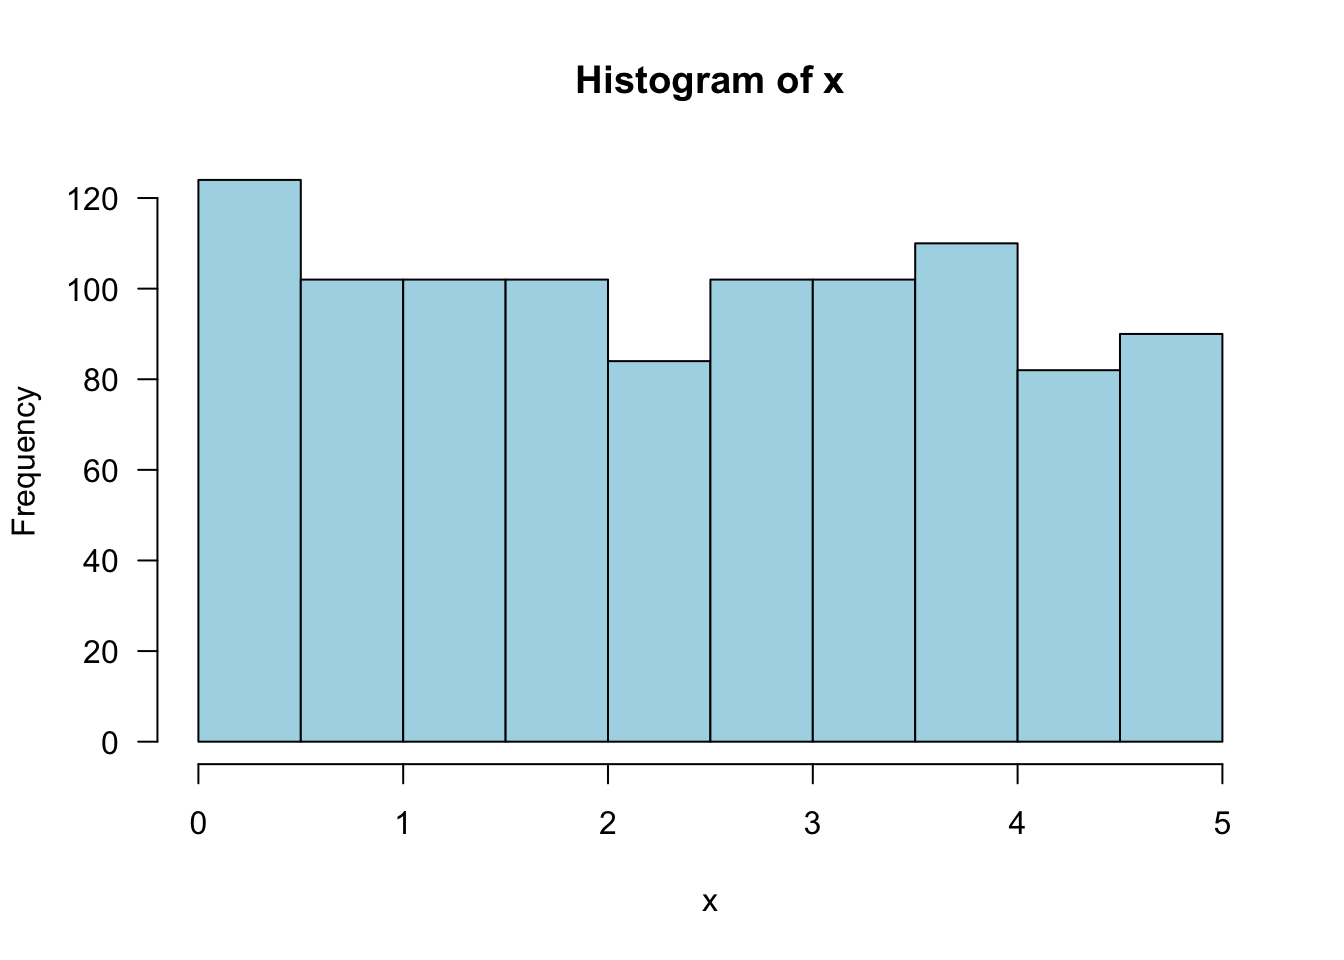
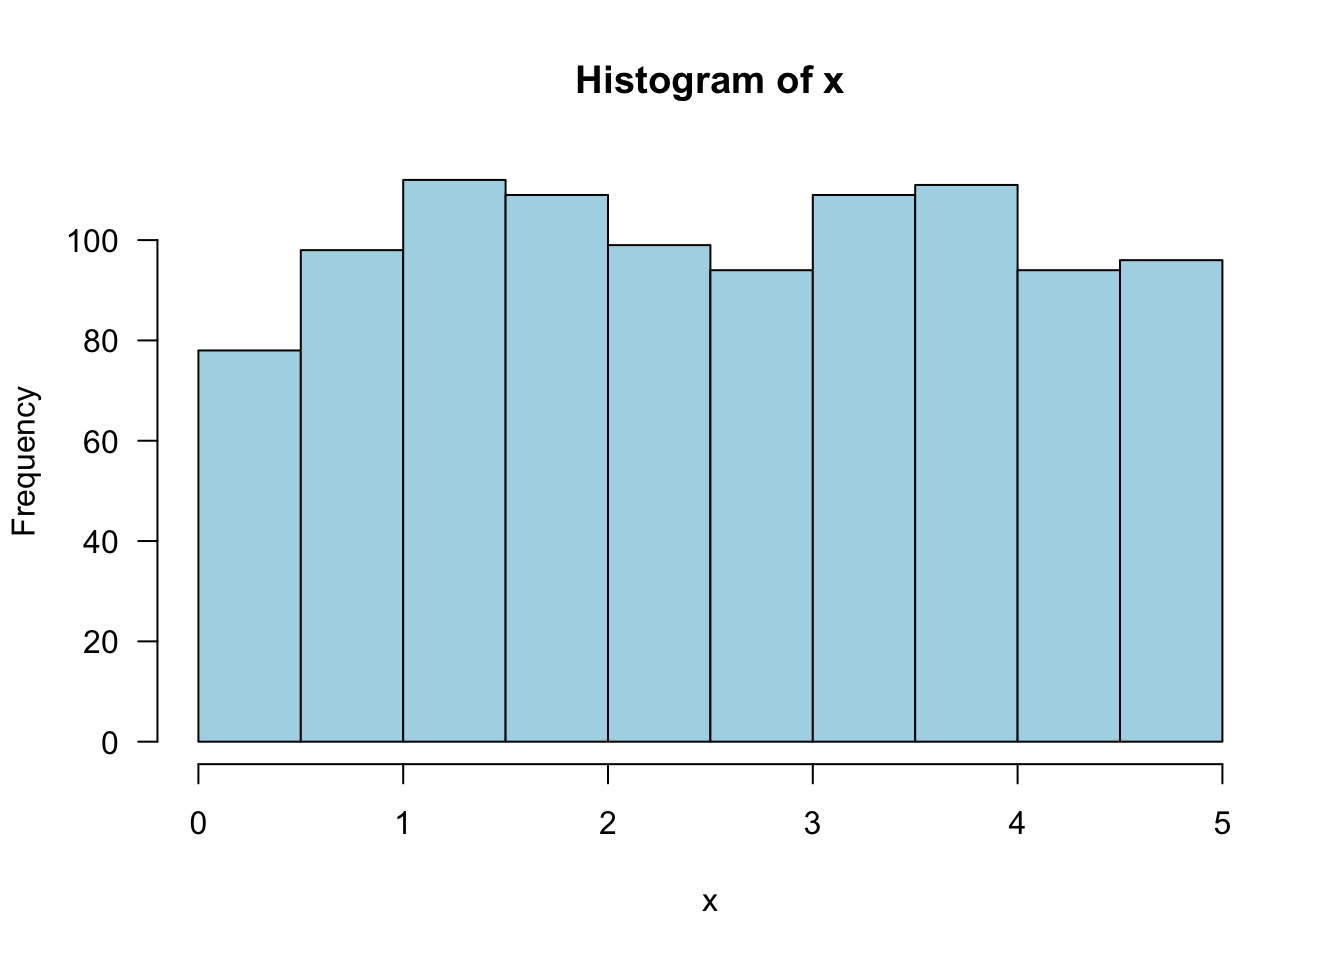
jtr13 published a site update

diff --git a/index.html b/index.html
@@ -142,7 +142,6 @@ code span.wa { color: #60a0b0; font-weight: bold; font-style: italic; } /* Warni
 <li class="chapter" data-level="" data-path="index.html"><a href="index.html#saving-your-code-as-an-.r-file"><i class="fa fa-check"></i>Saving your code as an .R file</a></li>
 <li class="chapter" data-level="" data-path="index.html"><a href="index.html#convert-.r-file-to-.html"><i class="fa fa-check"></i>Convert .R file to .html</a></li>
 <li class="chapter" data-level="" data-path="index.html"><a href="index.html#save-code-and-text-as-.rmd-convert-to-.html"><i class="fa fa-check"></i>Save code and text as .Rmd, convert to .html</a></li>
-<li class="chapter" data-level="" data-path="index.html"><a href="index.html#using-r-as-a-calculator"><i class="fa fa-check"></i>Using R as a calculator</a></li>
 </ul></li>
 <li class="chapter" data-level="" data-path="index.html"><a href="index.html#contact"><i class="fa fa-check"></i>Contact</a></li>
 <li class="chapter" data-level="" data-path="index.html"><a href="index.html#license"><i class="fa fa-check"></i>License</a></li>
@@ -314,6 +313,33 @@ code span.wa { color: #60a0b0; font-weight: bold; font-style: italic; } /* Warni
 <p><img src="images/R2.png" /></p>
 <p>Drawing a stem and leaf plot</p>
 <p><img src="images/R3.png" /></p>
+<p>Basic operations:</p>
+<div class="sourceCode" id="cb1"><pre class="sourceCode r"><code class="sourceCode r"><span id="cb1-1"><a href="index.html#cb1-1"></a><span class="dv">3</span> <span class="op">+</span><span class="st"> </span><span class="dv">4</span></span></code></pre></div>
+<pre><code>## [1] 7</code></pre>
+<div class="sourceCode" id="cb3"><pre class="sourceCode r"><code class="sourceCode r"><span id="cb3-1"><a href="index.html#cb3-1"></a><span class="dv">3</span> <span class="op">-</span><span class="st"> </span><span class="dv">4</span></span></code></pre></div>
+<pre><code>## [1] -1</code></pre>
+<div class="sourceCode" id="cb5"><pre class="sourceCode r"><code class="sourceCode r"><span id="cb5-1"><a href="index.html#cb5-1"></a><span class="dv">3</span> <span class="op">*</span><span class="st"> </span><span class="dv">4</span></span></code></pre></div>
+<pre><code>## [1] 12</code></pre>
+<div class="sourceCode" id="cb7"><pre class="sourceCode r"><code class="sourceCode r"><span id="cb7-1"><a href="index.html#cb7-1"></a><span class="dv">3</span> <span class="op">/</span><span class="st"> </span><span class="dv">4</span></span></code></pre></div>
+<pre><code>## [1] 0.75</code></pre>
+<div class="sourceCode" id="cb9"><pre class="sourceCode r"><code class="sourceCode r"><span id="cb9-1"><a href="index.html#cb9-1"></a><span class="dv">3</span><span class="op">^</span><span class="dv">4</span></span></code></pre></div>
+<pre><code>## [1] 81</code></pre>
+<p>Working with vectors:</p>
+<div class="sourceCode" id="cb11"><pre class="sourceCode r"><code class="sourceCode r"><span id="cb11-1"><a href="index.html#cb11-1"></a>x &lt;-<span class="st"> </span><span class="dv">1</span><span class="op">:</span><span class="dv">5</span></span>
+<span id="cb11-2"><a href="index.html#cb11-2"></a>x</span></code></pre></div>
+<pre><code>## [1] 1 2 3 4 5</code></pre>
+<div class="sourceCode" id="cb13"><pre class="sourceCode r"><code class="sourceCode r"><span id="cb13-1"><a href="index.html#cb13-1"></a><span class="kw">sum</span>(x)</span></code></pre></div>
+<pre><code>## [1] 15</code></pre>
+<div class="sourceCode" id="cb15"><pre class="sourceCode r"><code class="sourceCode r"><span id="cb15-1"><a href="index.html#cb15-1"></a><span class="kw">cumsum</span>(x)</span></code></pre></div>
+<pre><code>## [1]  1  3  6 10 15</code></pre>
+<div class="sourceCode" id="cb17"><pre class="sourceCode r"><code class="sourceCode r"><span id="cb17-1"><a href="index.html#cb17-1"></a>px &lt;-<span class="st"> </span>x<span class="op">*</span>.<span class="dv">05</span> <span class="op">+</span><span class="st"> </span><span class="fl">.05</span></span>
+<span id="cb17-2"><a href="index.html#cb17-2"></a>px</span></code></pre></div>
+<pre><code>## [1] 0.10 0.15 0.20 0.25 0.30</code></pre>
+<p>Expected value:</p>
+<div class="sourceCode" id="cb19"><pre class="sourceCode r"><code class="sourceCode r"><span id="cb19-1"><a href="index.html#cb19-1"></a>x<span class="op">*</span>px</span></code></pre></div>
+<pre><code>## [1] 0.1 0.3 0.6 1.0 1.5</code></pre>
+<div class="sourceCode" id="cb21"><pre class="sourceCode r"><code class="sourceCode r"><span id="cb21-1"><a href="index.html#cb21-1"></a><span class="kw">sum</span>(x<span class="op">*</span>px)</span></code></pre></div>
+<pre><code>## [1] 3.5</code></pre>
 </div>
 <div id="saving-your-code-as-an-.r-file" class="section level3 unnumbered">
 <h3>Saving your code as an .R file</h3>
@@ -342,36 +368,6 @@ code span.wa { color: #60a0b0; font-weight: bold; font-style: italic; } /* Warni
 <p><strong>Video</strong></p>
 <iframe width="560" height="315" src="https://www.youtube.com/embed/x0-kHWybiaQ" frameborder="0" allow="accelerometer; autoplay; encrypted-media; gyroscope; picture-in-picture" allowfullscreen>
 </iframe>
-</div>
-<div id="using-r-as-a-calculator" class="section level3 unnumbered">
-<h3>Using R as a calculator</h3>
-<p>Basic operations:</p>
-<div class="sourceCode" id="cb1"><pre class="sourceCode r"><code class="sourceCode r"><span id="cb1-1"><a href="index.html#cb1-1"></a><span class="dv">3</span> <span class="op">+</span><span class="st"> </span><span class="dv">4</span></span></code></pre></div>
-<pre><code>## [1] 7</code></pre>
-<div class="sourceCode" id="cb3"><pre class="sourceCode r"><code class="sourceCode r"><span id="cb3-1"><a href="index.html#cb3-1"></a><span class="dv">3</span> <span class="op">-</span><span class="st"> </span><span class="dv">4</span></span></code></pre></div>
-<pre><code>## [1] -1</code></pre>
-<div class="sourceCode" id="cb5"><pre class="sourceCode r"><code class="sourceCode r"><span id="cb5-1"><a href="index.html#cb5-1"></a><span class="dv">3</span> <span class="op">*</span><span class="st"> </span><span class="dv">4</span></span></code></pre></div>
-<pre><code>## [1] 12</code></pre>
-<div class="sourceCode" id="cb7"><pre class="sourceCode r"><code class="sourceCode r"><span id="cb7-1"><a href="index.html#cb7-1"></a><span class="dv">3</span> <span class="op">/</span><span class="st"> </span><span class="dv">4</span></span></code></pre></div>
-<pre><code>## [1] 0.75</code></pre>
-<div class="sourceCode" id="cb9"><pre class="sourceCode r"><code class="sourceCode r"><span id="cb9-1"><a href="index.html#cb9-1"></a><span class="dv">3</span><span class="op">^</span><span class="dv">4</span></span></code></pre></div>
-<pre><code>## [1] 81</code></pre>
-<p>Working with vectors:</p>
-<div class="sourceCode" id="cb11"><pre class="sourceCode r"><code class="sourceCode r"><span id="cb11-1"><a href="index.html#cb11-1"></a>x &lt;-<span class="st"> </span><span class="dv">1</span><span class="op">:</span><span class="dv">5</span></span>
-<span id="cb11-2"><a href="index.html#cb11-2"></a>x</span></code></pre></div>
-<pre><code>## [1] 1 2 3 4 5</code></pre>
-<div class="sourceCode" id="cb13"><pre class="sourceCode r"><code class="sourceCode r"><span id="cb13-1"><a href="index.html#cb13-1"></a><span class="kw">sum</span>(x)</span></code></pre></div>
-<pre><code>## [1] 15</code></pre>
-<div class="sourceCode" id="cb15"><pre class="sourceCode r"><code class="sourceCode r"><span id="cb15-1"><a href="index.html#cb15-1"></a><span class="kw">cumsum</span>(x)</span></code></pre></div>
-<pre><code>## [1]  1  3  6 10 15</code></pre>
-<div class="sourceCode" id="cb17"><pre class="sourceCode r"><code class="sourceCode r"><span id="cb17-1"><a href="index.html#cb17-1"></a>px &lt;-<span class="st"> </span>x<span class="op">*</span>.<span class="dv">05</span> <span class="op">+</span><span class="st"> </span><span class="fl">.05</span></span>
-<span id="cb17-2"><a href="index.html#cb17-2"></a>px</span></code></pre></div>
-<pre><code>## [1] 0.10 0.15 0.20 0.25 0.30</code></pre>
-<p>Expected value:</p>
-<div class="sourceCode" id="cb19"><pre class="sourceCode r"><code class="sourceCode r"><span id="cb19-1"><a href="index.html#cb19-1"></a>x<span class="op">*</span>px</span></code></pre></div>
-<pre><code>## [1] 0.1 0.3 0.6 1.0 1.5</code></pre>
-<div class="sourceCode" id="cb21"><pre class="sourceCode r"><code class="sourceCode r"><span id="cb21-1"><a href="index.html#cb21-1"></a><span class="kw">sum</span>(x<span class="op">*</span>px)</span></code></pre></div>
-<pre><code>## [1] 3.5</code></pre>
 <!-- Contact -->
 </div>
 </div>

diff --git a/ch-4-continuous-random-variables-and-probability-distributions.html b/ch-4-continuous-random-variables-and-probability-distributions.html
@@ -142,7 +142,6 @@ code span.wa { color: #60a0b0; font-weight: bold; font-style: italic; } /* Warni
 <li class="chapter" data-level="" data-path="index.html"><a href="index.html#saving-your-code-as-an-.r-file"><i class="fa fa-check"></i>Saving your code as an .R file</a></li>
 <li class="chapter" data-level="" data-path="index.html"><a href="index.html#convert-.r-file-to-.html"><i class="fa fa-check"></i>Convert .R file to .html</a></li>
 <li class="chapter" data-level="" data-path="index.html"><a href="index.html#save-code-and-text-as-.rmd-convert-to-.html"><i class="fa fa-check"></i>Save code and text as .Rmd, convert to .html</a></li>
-<li class="chapter" data-level="" data-path="index.html"><a href="index.html#using-r-as-a-calculator"><i class="fa fa-check"></i>Using R as a calculator</a></li>
 </ul></li>
 <li class="chapter" data-level="" data-path="index.html"><a href="index.html#contact"><i class="fa fa-check"></i>Contact</a></li>
 <li class="chapter" data-level="" data-path="index.html"><a href="index.html#license"><i class="fa fa-check"></i>License</a></li>
@@ -272,11 +271,11 @@ code span.wa { color: #60a0b0; font-weight: bold; font-style: italic; } /* Warni
 <p>Randomly choose one number from the distribution:</p>
 <p><span class="math inline">\(f(x) = .2\)</span> for <span class="math inline">\(0 \leq x \leq 5\)</span>, 0 otherwise.</p>
 <div class="sourceCode" id="cb149"><pre class="sourceCode r"><code class="sourceCode r"><span id="cb149-1"><a href="ch-4-continuous-random-variables-and-probability-distributions.html#cb149-1"></a><span class="kw">runif</span>(<span class="dt">n =</span> <span class="dv">1</span>, <span class="dt">min =</span> <span class="dv">0</span>, <span class="dt">max =</span> <span class="dv">5</span>)</span></code></pre></div>
-<pre><code>## [1] 0.4248405</code></pre>
+<pre><code>## [1] 4.488759</code></pre>
 <p>Take the average of 1000 picks:</p>
 <div class="sourceCode" id="cb151"><pre class="sourceCode r"><code class="sourceCode r"><span id="cb151-1"><a href="ch-4-continuous-random-variables-and-probability-distributions.html#cb151-1"></a>x &lt;-<span class="st"> </span><span class="kw">runif</span>(<span class="dt">n =</span> <span class="dv">1000</span>, <span class="dt">min =</span> <span class="dv">0</span>, <span class="dt">max =</span> <span class="dv">5</span>)</span>
 <span id="cb151-2"><a href="ch-4-continuous-random-variables-and-probability-distributions.html#cb151-2"></a><span class="kw">mean</span>(x)</span></code></pre></div>
-<pre><code>## [1] 2.40791</code></pre>
+<pre><code>## [1] 2.530955</code></pre>
 <p>Draw a histogram of the 1000 picks:</p>
 <div class="sourceCode" id="cb153"><pre class="sourceCode r"><code class="sourceCode r"><span id="cb153-1"><a href="ch-4-continuous-random-variables-and-probability-distributions.html#cb153-1"></a><span class="kw">hist</span>(x, <span class="dt">las =</span> <span class="dv">1</span>, <span class="dt">col =</span> <span class="st">&quot;lightblue&quot;</span>)</span></code></pre></div>
 <p><img src="STAT1201-resource_files/figure-html/unnamed-chunk-41-1.png" width="672" /></p>

diff --git a/ch-1-descriptive-statistics.html b/ch-1-descriptive-statistics.html
@@ -142,7 +142,6 @@ code span.wa { color: #60a0b0; font-weight: bold; font-style: italic; } /* Warni
 <li class="chapter" data-level="" data-path="index.html"><a href="index.html#saving-your-code-as-an-.r-file"><i class="fa fa-check"></i>Saving your code as an .R file</a></li>
 <li class="chapter" data-level="" data-path="index.html"><a href="index.html#convert-.r-file-to-.html"><i class="fa fa-check"></i>Convert .R file to .html</a></li>
 <li class="chapter" data-level="" data-path="index.html"><a href="index.html#save-code-and-text-as-.rmd-convert-to-.html"><i class="fa fa-check"></i>Save code and text as .Rmd, convert to .html</a></li>
-<li class="chapter" data-level="" data-path="index.html"><a href="index.html#using-r-as-a-calculator"><i class="fa fa-check"></i>Using R as a calculator</a></li>
 </ul></li>
 <li class="chapter" data-level="" data-path="index.html"><a href="index.html#contact"><i class="fa fa-check"></i>Contact</a></li>
 <li class="chapter" data-level="" data-path="index.html"><a href="index.html#license"><i class="fa fa-check"></i>License</a></li>

diff --git a/ch-12-linear-regression.html b/ch-12-linear-regression.html
@@ -142,7 +142,6 @@ code span.wa { color: #60a0b0; font-weight: bold; font-style: italic; } /* Warni
 <li class="chapter" data-level="" data-path="index.html"><a href="index.html#saving-your-code-as-an-.r-file"><i class="fa fa-check"></i>Saving your code as an .R file</a></li>
 <li class="chapter" data-level="" data-path="index.html"><a href="index.html#convert-.r-file-to-.html"><i class="fa fa-check"></i>Convert .R file to .html</a></li>
 <li class="chapter" data-level="" data-path="index.html"><a href="index.html#save-code-and-text-as-.rmd-convert-to-.html"><i class="fa fa-check"></i>Save code and text as .Rmd, convert to .html</a></li>
-<li class="chapter" data-level="" data-path="index.html"><a href="index.html#using-r-as-a-calculator"><i class="fa fa-check"></i>Using R as a calculator</a></li>
 </ul></li>
 <li class="chapter" data-level="" data-path="index.html"><a href="index.html#contact"><i class="fa fa-check"></i>Contact</a></li>
 <li class="chapter" data-level="" data-path="index.html"><a href="index.html#license"><i class="fa fa-check"></i>License</a></li>

diff --git a/ch-2-conditional-probability.html b/ch-2-conditional-probability.html
@@ -142,7 +142,6 @@ code span.wa { color: #60a0b0; font-weight: bold; font-style: italic; } /* Warni
 <li class="chapter" data-level="" data-path="index.html"><a href="index.html#saving-your-code-as-an-.r-file"><i class="fa fa-check"></i>Saving your code as an .R file</a></li>
 <li class="chapter" data-level="" data-path="index.html"><a href="index.html#convert-.r-file-to-.html"><i class="fa fa-check"></i>Convert .R file to .html</a></li>
 <li class="chapter" data-level="" data-path="index.html"><a href="index.html#save-code-and-text-as-.rmd-convert-to-.html"><i class="fa fa-check"></i>Save code and text as .Rmd, convert to .html</a></li>
-<li class="chapter" data-level="" data-path="index.html"><a href="index.html#using-r-as-a-calculator"><i class="fa fa-check"></i>Using R as a calculator</a></li>
 </ul></li>
 <li class="chapter" data-level="" data-path="index.html"><a href="index.html#contact"><i class="fa fa-check"></i>Contact</a></li>
 <li class="chapter" data-level="" data-path="index.html"><a href="index.html#license"><i class="fa fa-check"></i>License</a></li>

diff --git a/ch-2-probability.html b/ch-2-probability.html
@@ -142,7 +142,6 @@ code span.wa { color: #60a0b0; font-weight: bold; font-style: italic; } /* Warni
 <li class="chapter" data-level="" data-path="index.html"><a href="index.html#saving-your-code-as-an-.r-file"><i class="fa fa-check"></i>Saving your code as an .R file</a></li>
 <li class="chapter" data-level="" data-path="index.html"><a href="index.html#convert-.r-file-to-.html"><i class="fa fa-check"></i>Convert .R file to .html</a></li>
 <li class="chapter" data-level="" data-path="index.html"><a href="index.html#save-code-and-text-as-.rmd-convert-to-.html"><i class="fa fa-check"></i>Save code and text as .Rmd, convert to .html</a></li>
-<li class="chapter" data-level="" data-path="index.html"><a href="index.html#using-r-as-a-calculator"><i class="fa fa-check"></i>Using R as a calculator</a></li>
 </ul></li>
 <li class="chapter" data-level="" data-path="index.html"><a href="index.html#contact"><i class="fa fa-check"></i>Contact</a></li>
 <li class="chapter" data-level="" data-path="index.html"><a href="index.html#license"><i class="fa fa-check"></i>License</a></li>

diff --git a/ch-3-discrete-distributions.html b/ch-3-discrete-distributions.html
@@ -142,7 +142,6 @@ code span.wa { color: #60a0b0; font-weight: bold; font-style: italic; } /* Warni
 <li class="chapter" data-level="" data-path="index.html"><a href="index.html#saving-your-code-as-an-.r-file"><i class="fa fa-check"></i>Saving your code as an .R file</a></li>
 <li class="chapter" data-level="" data-path="index.html"><a href="index.html#convert-.r-file-to-.html"><i class="fa fa-check"></i>Convert .R file to .html</a></li>
 <li class="chapter" data-level="" data-path="index.html"><a href="index.html#save-code-and-text-as-.rmd-convert-to-.html"><i class="fa fa-check"></i>Save code and text as .Rmd, convert to .html</a></li>
-<li class="chapter" data-level="" data-path="index.html"><a href="index.html#using-r-as-a-calculator"><i class="fa fa-check"></i>Using R as a calculator</a></li>
 </ul></li>
 <li class="chapter" data-level="" data-path="index.html"><a href="index.html#contact"><i class="fa fa-check"></i>Contact</a></li>
 <li class="chapter" data-level="" data-path="index.html"><a href="index.html#license"><i class="fa fa-check"></i>License</a></li>

diff --git a/ch-5-joint-probability.html b/ch-5-joint-probability.html
@@ -142,7 +142,6 @@ code span.wa { color: #60a0b0; font-weight: bold; font-style: italic; } /* Warni
 <li class="chapter" data-level="" data-path="index.html"><a href="index.html#saving-your-code-as-an-.r-file"><i class="fa fa-check"></i>Saving your code as an .R file</a></li>
 <li class="chapter" data-level="" data-path="index.html"><a href="index.html#convert-.r-file-to-.html"><i class="fa fa-check"></i>Convert .R file to .html</a></li>
 <li class="chapter" data-level="" data-path="index.html"><a href="index.html#save-code-and-text-as-.rmd-convert-to-.html"><i class="fa fa-check"></i>Save code and text as .Rmd, convert to .html</a></li>
-<li class="chapter" data-level="" data-path="index.html"><a href="index.html#using-r-as-a-calculator"><i class="fa fa-check"></i>Using R as a calculator</a></li>
 </ul></li>
 <li class="chapter" data-level="" data-path="index.html"><a href="index.html#contact"><i class="fa fa-check"></i>Contact</a></li>
 <li class="chapter" data-level="" data-path="index.html"><a href="index.html#license"><i class="fa fa-check"></i>License</a></li>

diff --git a/ch-5-random-samples.html b/ch-5-random-samples.html
@@ -142,7 +142,6 @@ code span.wa { color: #60a0b0; font-weight: bold; font-style: italic; } /* Warni
 <li class="chapter" data-level="" data-path="index.html"><a href="index.html#saving-your-code-as-an-.r-file"><i class="fa fa-check"></i>Saving your code as an .R file</a></li>
 <li class="chapter" data-level="" data-path="index.html"><a href="index.html#convert-.r-file-to-.html"><i class="fa fa-check"></i>Convert .R file to .html</a></li>
 <li class="chapter" data-level="" data-path="index.html"><a href="index.html#save-code-and-text-as-.rmd-convert-to-.html"><i class="fa fa-check"></i>Save code and text as .Rmd, convert to .html</a></li>
-<li class="chapter" data-level="" data-path="index.html"><a href="index.html#using-r-as-a-calculator"><i class="fa fa-check"></i>Using R as a calculator</a></li>
 </ul></li>
 <li class="chapter" data-level="" data-path="index.html"><a href="index.html#contact"><i class="fa fa-check"></i>Contact</a></li>
 <li class="chapter" data-level="" data-path="index.html"><a href="index.html#license"><i class="fa fa-check"></i>License</a></li>

diff --git a/ch-6-point-estimation.html b/ch-6-point-estimation.html
@@ -142,7 +142,6 @@ code span.wa { color: #60a0b0; font-weight: bold; font-style: italic; } /* Warni
 <li class="chapter" data-level="" data-path="index.html"><a href="index.html#saving-your-code-as-an-.r-file"><i class="fa fa-check"></i>Saving your code as an .R file</a></li>
 <li class="chapter" data-level="" data-path="index.html"><a href="index.html#convert-.r-file-to-.html"><i class="fa fa-check"></i>Convert .R file to .html</a></li>
 <li class="chapter" data-level="" data-path="index.html"><a href="index.html#save-code-and-text-as-.rmd-convert-to-.html"><i class="fa fa-check"></i>Save code and text as .Rmd, convert to .html</a></li>
-<li class="chapter" data-level="" data-path="index.html"><a href="index.html#using-r-as-a-calculator"><i class="fa fa-check"></i>Using R as a calculator</a></li>
 </ul></li>
 <li class="chapter" data-level="" data-path="index.html"><a href="index.html#contact"><i class="fa fa-check"></i>Contact</a></li>
 <li class="chapter" data-level="" data-path="index.html"><a href="index.html#license"><i class="fa fa-check"></i>License</a></li>

diff --git a/ch-7-statistical-intervals-based-on-a-single-sample.html b/ch-7-statistical-intervals-based-on-a-single-sample.html
@@ -142,7 +142,6 @@ code span.wa { color: #60a0b0; font-weight: bold; font-style: italic; } /* Warni
 <li class="chapter" data-level="" data-path="index.html"><a href="index.html#saving-your-code-as-an-.r-file"><i class="fa fa-check"></i>Saving your code as an .R file</a></li>
 <li class="chapter" data-level="" data-path="index.html"><a href="index.html#convert-.r-file-to-.html"><i class="fa fa-check"></i>Convert .R file to .html</a></li>
 <li class="chapter" data-level="" data-path="index.html"><a href="index.html#save-code-and-text-as-.rmd-convert-to-.html"><i class="fa fa-check"></i>Save code and text as .Rmd, convert to .html</a></li>
-<li class="chapter" data-level="" data-path="index.html"><a href="index.html#using-r-as-a-calculator"><i class="fa fa-check"></i>Using R as a calculator</a></li>
 </ul></li>
 <li class="chapter" data-level="" data-path="index.html"><a href="index.html#contact"><i class="fa fa-check"></i>Contact</a></li>
 <li class="chapter" data-level="" data-path="index.html"><a href="index.html#license"><i class="fa fa-check"></i>License</a></li>

diff --git a/ch-8-tests-of-hypotheses-based-on-a-single-sample.html b/ch-8-tests-of-hypotheses-based-on-a-single-sample.html
@@ -142,7 +142,6 @@ code span.wa { color: #60a0b0; font-weight: bold; font-style: italic; } /* Warni
 <li class="chapter" data-level="" data-path="index.html"><a href="index.html#saving-your-code-as-an-.r-file"><i class="fa fa-check"></i>Saving your code as an .R file</a></li>
 <li class="chapter" data-level="" data-path="index.html"><a href="index.html#convert-.r-file-to-.html"><i class="fa fa-check"></i>Convert .R file to .html</a></li>
 <li class="chapter" data-level="" data-path="index.html"><a href="index.html#save-code-and-text-as-.rmd-convert-to-.html"><i class="fa fa-check"></i>Save code and text as .Rmd, convert to .html</a></li>
-<li class="chapter" data-level="" data-path="index.html"><a href="index.html#using-r-as-a-calculator"><i class="fa fa-check"></i>Using R as a calculator</a></li>
 </ul></li>
 <li class="chapter" data-level="" data-path="index.html"><a href="index.html#contact"><i class="fa fa-check"></i>Contact</a></li>
 <li class="chapter" data-level="" data-path="index.html"><a href="index.html#license"><i class="fa fa-check"></i>License</a></li>
